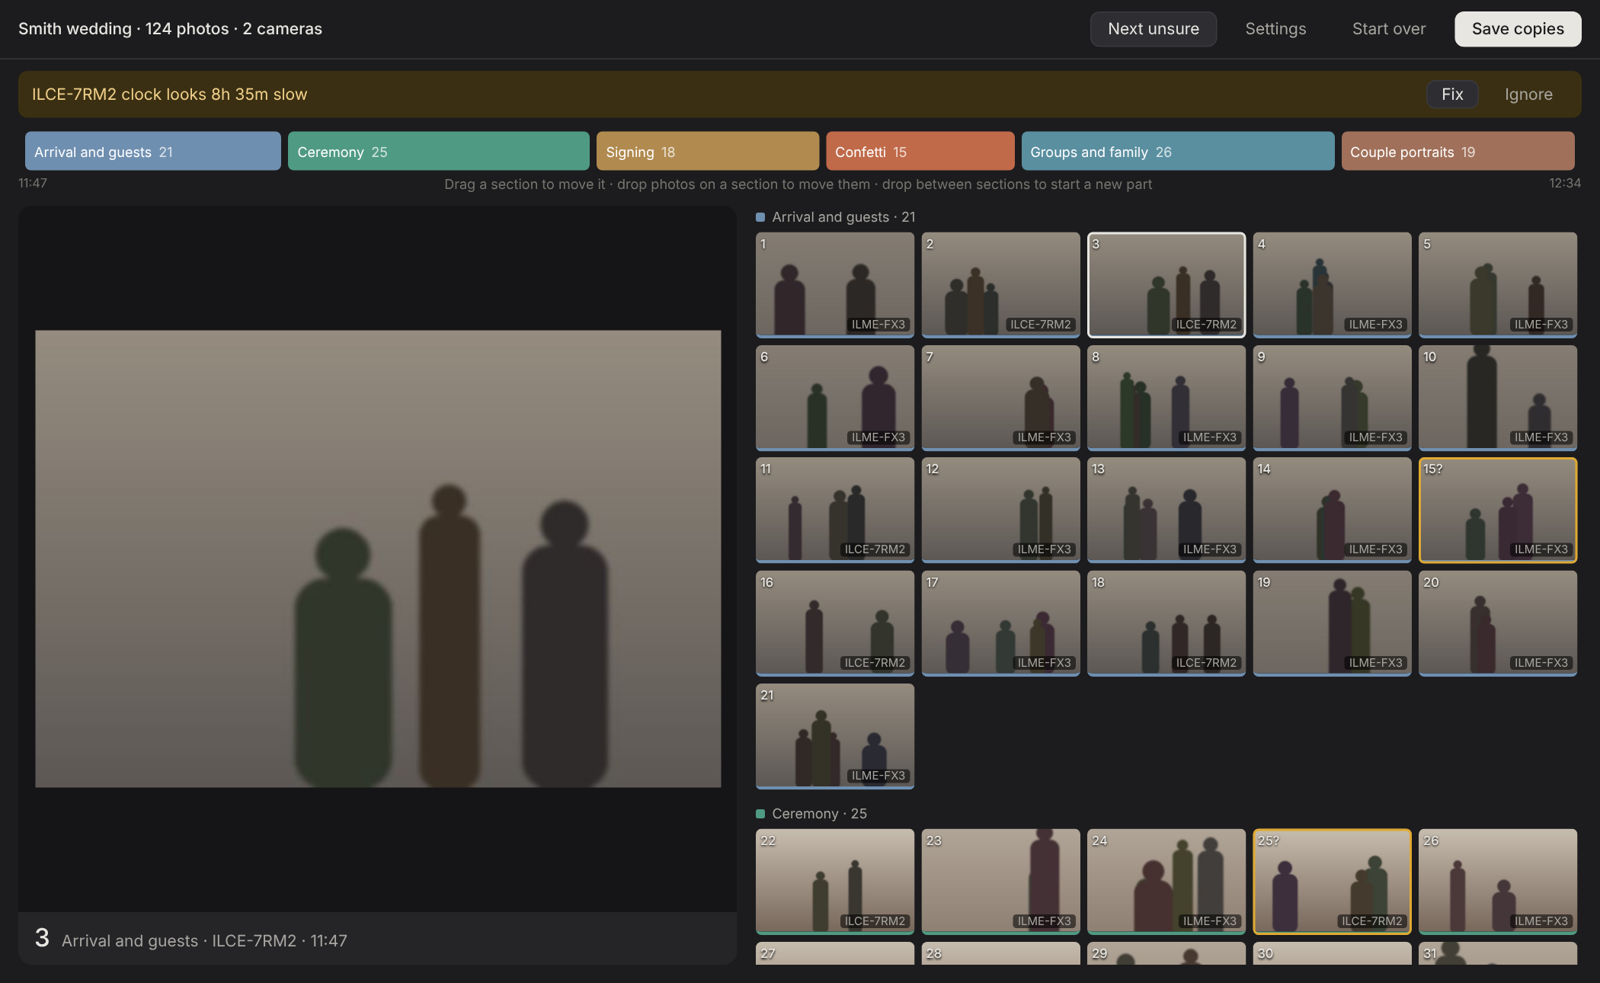
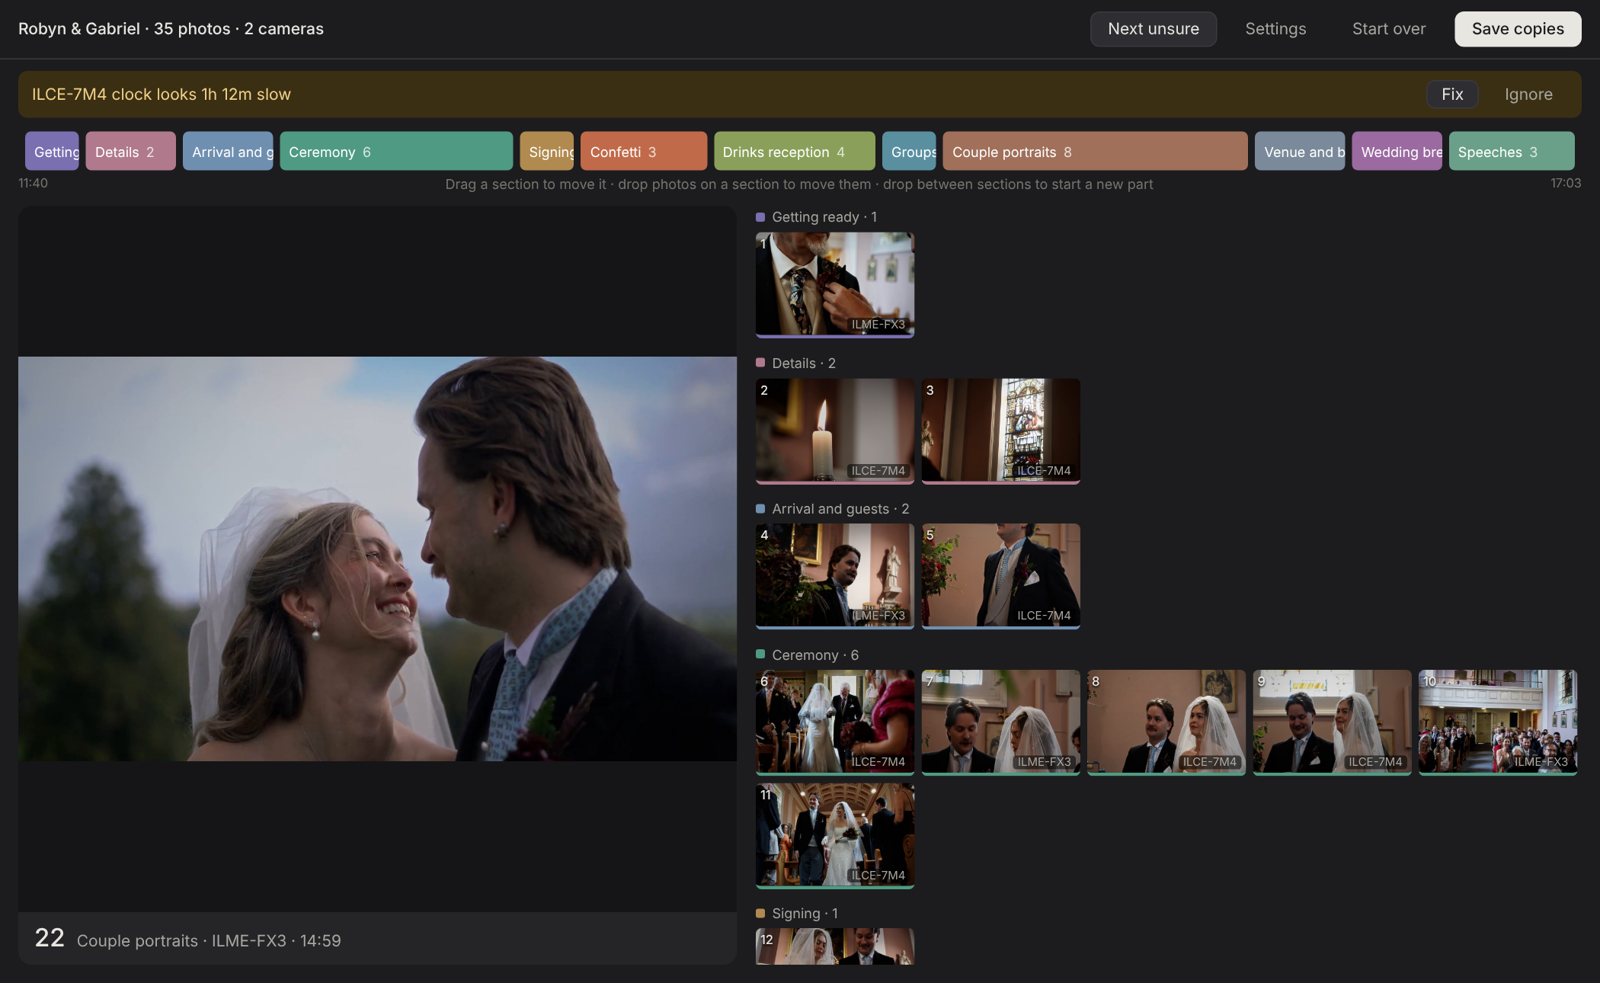
docs: README screenshots from Robyn & Gabriel's wedding
Claude-Session: https://claude.ai/code/session_01EnbbVvxMTqshjKVjRSBuQT

diff --git a/scripts/ui-preview/main.tsx b/scripts/ui-preview/main.tsx
@@ -1,27 +1,29 @@
 import { createRoot } from 'react-dom/client'
 import { App } from '../../src/renderer/App'
 import { DEFAULT_PARTS } from '../../src/main/core/parts'
-import data from './public/data.json'
+import bakewell from './public/data.json'
+import robyn from './public/data-robyn.json'
+const data: any = location.search.includes('robyn') ? robyn : bakewell
 
 const result = { ...data, parts: DEFAULT_PARTS }
 let progressCb: any
 ;(window as any).api = {
-  chooseFolder: async () => (location.search.includes('demo') ? '/home/you/Pictures/Smith wedding' : '/home/ben/Pictures/bakewell wedding'),
+  chooseFolder: async () => (location.search.includes('robyn') ? '/home/you/Pictures/Robyn & Gabriel' : location.search.includes('demo') ? '/home/you/Pictures/Smith wedding' : '/home/ben/Pictures/bakewell wedding'),
   sort: () =>
     new Promise((resolve) => {
       if (!location.search.includes('slow')) return resolve(result)
       let done = 0
       const t = setInterval(() => {
-        done += 4
-        progressCb?.({ stage: done < 124 ? 'analyse' : 'arrange', done: Math.min(done, 124), total: 124 })
-        if (done > 140) { clearInterval(t); resolve(result) }
+        done += Math.max(1, Math.round(data.photos.length / 30))
+        progressCb?.({ stage: done < data.photos.length ? "analyse" : "arrange", done: Math.min(done, data.photos.length), total: data.photos.length })
+        if (done > data.photos.length + 12) { clearInterval(t); resolve(result) }
       }, 120)
     }),
   onProgress: (cb: any) => ((progressCb = cb), () => {}),
   onModelDownload: () => () => {},
   applyClockFix: async () => ({ ...result, clock: [] }),
   recordCorrection: async () => {},
-  save: async () => ({ written: 124, outDir: '/x/numbered' }),
+  save: async () => ({ written: data.photos.length, outDir: '/x/numbered' }),
   getParts: async () => DEFAULT_PARTS,
   setParts: async () => {},
   licence: async () => ({ licensed: false }),

diff --git a/scripts/ui-preview/api-shim.ts b/scripts/ui-preview/api-shim.ts
@@ -1,4 +1,6 @@
 export * from '../../src/shared/api'
 export function thumbUrl(path: string, _width: number): string {
-  return `/${(globalThis as any).location?.search.includes('demo') ? 'thumbs-demo' : 'thumbs'}/${path.split('/').pop()}`
+  const q = (globalThis as any).location?.search ?? ''
+  const dir = q.includes('robyn') ? 'thumbs-robyn' : q.includes('demo') ? 'thumbs-demo' : 'thumbs'
+  return `/${dir}/${path.split('/').pop()}`
 }

diff --git a/README.md b/README.md
@@ -20,7 +20,7 @@
 </p>
 
 <p align="center">
-  <img src="docs/images/review.png" alt="Zen Sync's review screen: a timeline of the wedding day across the top, a large preview on the left, and numbered thumbnails grouped by part of the day" width="900">
+  <img src="docs/images/review.png" alt="Zen Sync's review screen for Robyn and Gabriel's wedding: a timeline of the day across the top, a large preview of the couple on the left, and numbered thumbnails grouped by part of the day" width="900">
 </p>
 
 ---
@@ -48,7 +48,7 @@ It works on finished JPEG exports, not RAW files, so it fits in after your edit 
 ## How it works
 
 <p align="center">
-  <img src="docs/images/sorting.png" alt="The ensō logo filling with gold while Zen Sync analyses 64 of 124 photos" width="620">
+  <img src="docs/images/sorting.png" alt="The ensō logo filling with gold while Zen Sync analyses the photos" width="440">
 </p>
 
 1. **Drop in a folder** of finished JPEGs from the wedding.
@@ -136,6 +136,6 @@ Zen Sync is in its **first version (0.1)**, built by [Zen Visuals](https://zenvi
 For developers: building, testing and releasing are covered in <a href="docs/DEVELOPING.md">docs/DEVELOPING.md</a>.
 Photo recognition uses Google's <a href="https://huggingface.co/google/siglip-base-patch16-224">SigLIP</a> model (Apache 2.0), run locally with <a href="https://github.com/huggingface/transformers.js">Transformers.js</a>.
 The wordmark is set in <a href="https://rsms.me/inter/">Inter</a> (SIL Open Font Licence).
-Screenshots use placeholder images.
+Screenshots show Robyn &amp; Gabriel's wedding, photographed by Zen Visuals.
 © 2026 Zen Visuals. All rights reserved.
 </sub>
